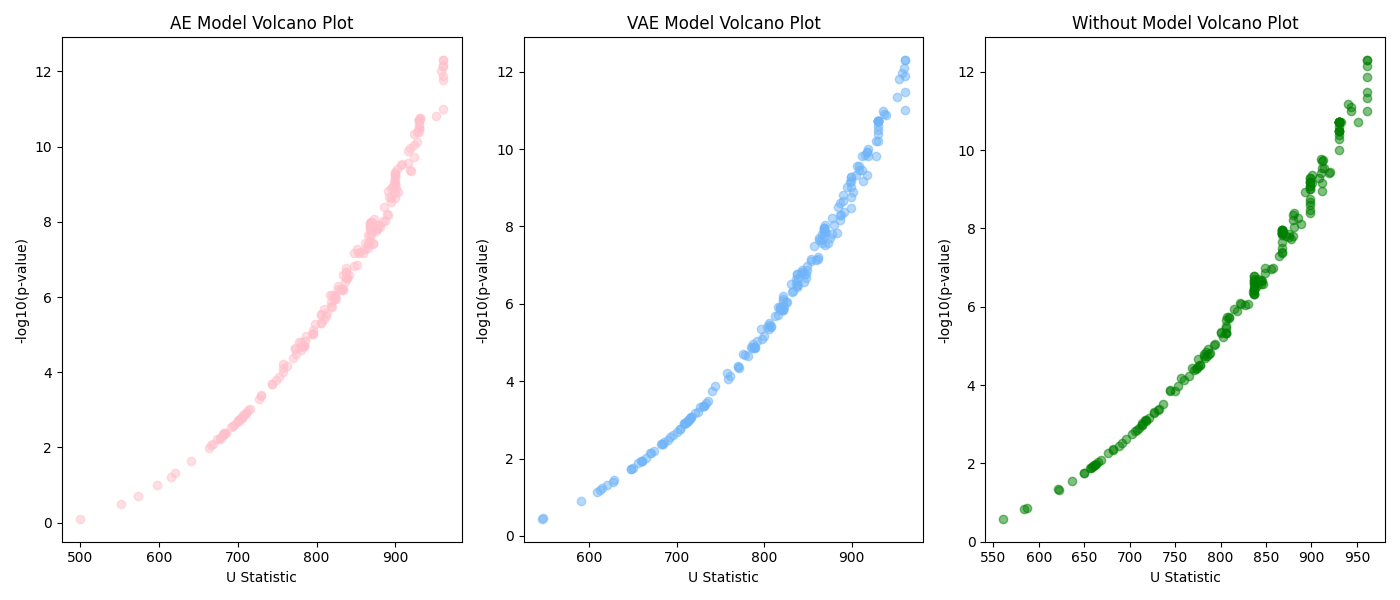
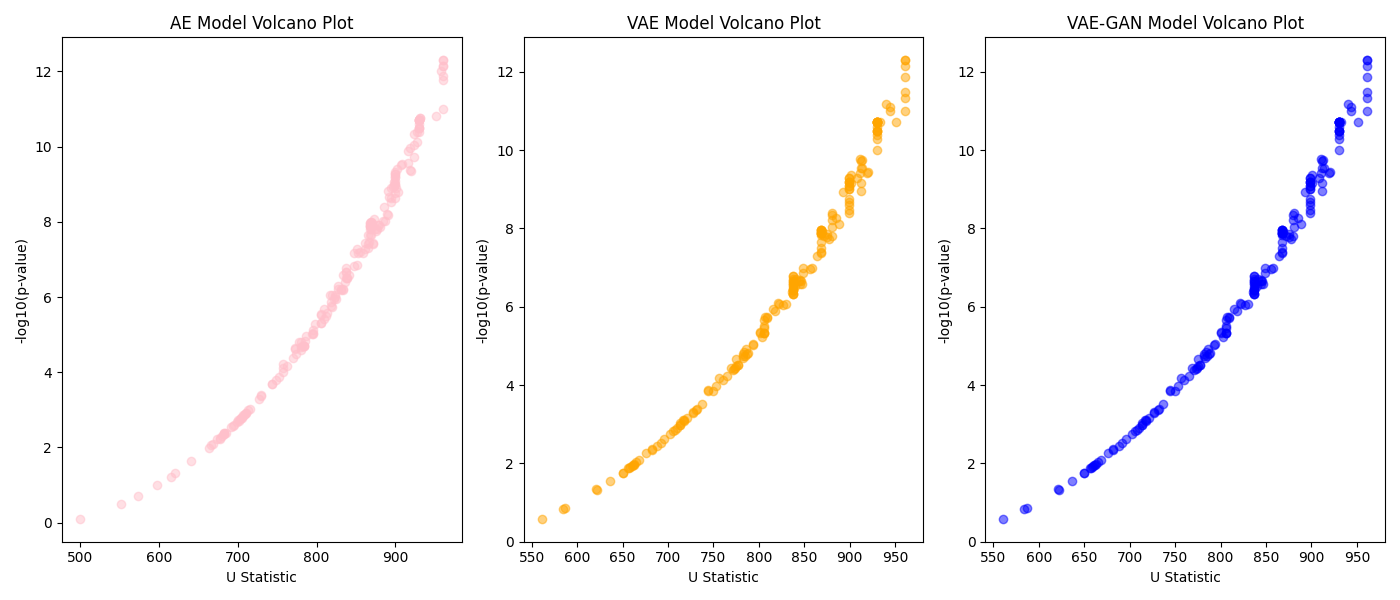
analysis commit

diff --git a/output/DAanalysis.py b/output/DAanalysis.py
@@ -4,20 +4,20 @@ import matplotlib.pyplot as plt
 from scipy.stats import mannwhitneyu
 
 # 加载数据
-mean_df = pd.read_csv('../data/IBD_PRISM/mean.tsv', sep='\t')
-original_df = pd.read_csv('../data/IBD_PRISM/microbiome_PRISM.tsv', sep='\t')
-without_df = pd.read_csv('../data/IBD_PRISM/output_values.tsv', sep='\t')
-vae_df = pd.read_csv('../result/IBD_PRISM/output_values.tsv', sep='\t')
+ae_df = pd.read_csv('../data/PRJEB13870/mean.tsv', sep='\t')
+original_df = pd.read_csv('../data/PRJEB13870/PRJEB13870.tsv', sep='\t')
+vae_df = pd.read_csv('../data/PRJEB13870/output_values.tsv', sep='\t')
+gan_df = pd.read_csv('../result/PRJEB13870/output_values.tsv', sep='\t')
 
 # 确保数据包含相同的样本进行比较
 common_samples = list(
-    set(mean_df.columns[1:]).intersection(set(original_df.columns[1:])).intersection(set(vae_df.columns[1:])))
+    set(ae_df.columns[1:]).intersection(set(original_df.columns[1:])).intersection(set(vae_df.columns[1:])))
 
 # 过滤数据以仅包含这些共同的样本
-mean_df_filtered = mean_df[['# Feature / Sample'] + common_samples]
-original_df_filtered = original_df[['# Feature / Sample'] + common_samples]
-vae_df_filtered = vae_df[['# Feature / Sample'] + common_samples]
-without_df_filtered = without_df[['# Feature / Sample'] + common_samples]
+mean_df_filtered = ae_df[['clade_name'] + common_samples]
+original_df_filtered = original_df[['clade_name'] + common_samples]
+vae_df_filtered = vae_df[['clade_name'] + common_samples]
+without_df_filtered = vae_df[['clade_name'] + common_samples]
 
 
 # 标准化数据
@@ -38,11 +38,11 @@ results_ae = []
 results_vae = []
 results_without = []
 
-for clade in original_normalized['# Feature / Sample']:
-    ae_values = mean_normalized[mean_normalized['# Feature / Sample'] == clade].iloc[:, 1:].values.flatten()
-    original_values = original_normalized[original_normalized['# Feature / Sample'] == clade].iloc[:, 1:].values.flatten()
-    vae_values = vae_normalized[vae_normalized['# Feature / Sample'] == clade].iloc[:, 1:].values.flatten()
-    without_values = without_normalized[without_normalized['# Feature / Sample'] == clade].iloc[:, 1:].values.flatten()
+for clade in original_normalized['clade_name']:
+    ae_values = mean_normalized[mean_normalized['clade_name'] == clade].iloc[:, 1:].values.flatten()
+    original_values = original_normalized[original_normalized['clade_name'] == clade].iloc[:, 1:].values.flatten()
+    vae_values = vae_normalized[vae_normalized['clade_name'] == clade].iloc[:, 1:].values.flatten()
+    without_values = without_normalized[without_normalized['clade_name'] == clade].iloc[:, 1:].values.flatten()
 
     u_stat_ae, p_val_ae = mannwhitneyu(ae_values, original_values, alternative='two-sided')
     u_stat_vae, p_val_vae = mannwhitneyu(vae_values, original_values, alternative='two-sided')
@@ -71,18 +71,18 @@ axes[0].set_title('AE Model Volcano Plot')
 axes[0].set_xlabel('U Statistic')
 axes[0].set_ylabel('-log10(p-value)')
 
-# VAE模型火山图
-axes[1].scatter(results_vae_df['u_stat'], results_vae_df['-log10(p_val)'], color='#6fb4f9', alpha=0.5)
+#VAE模型火山图
+axes[1].scatter(results_without_df['u_stat'], results_without_df['-log10(p_val)'], color='orange', alpha=0.5)
 axes[1].set_title('VAE Model Volcano Plot')
 axes[1].set_xlabel('U Statistic')
 axes[1].set_ylabel('-log10(p-value)')
 
-#Without模型火山图
-axes[2].scatter(results_without_df['u_stat'], results_without_df['-log10(p_val)'], color='green', alpha=0.5)
-axes[2].set_title('Without Model Volcano Plot')
+# VAE-GAN模型火山图
+axes[2].scatter(results_vae_df['u_stat'], results_vae_df['-log10(p_val)'], color='blue', alpha=0.5)
+axes[2].set_title('VAE-GAN Model Volcano Plot')
 axes[2].set_xlabel('U Statistic')
 axes[2].set_ylabel('-log10(p-value)')
 
 plt.tight_layout()
-plt.savefig('../result/IBD_PRISM/volcano_plot.png')
+plt.savefig('../result/PRJEB13870/volcano_plot.png')
 plt.show()
